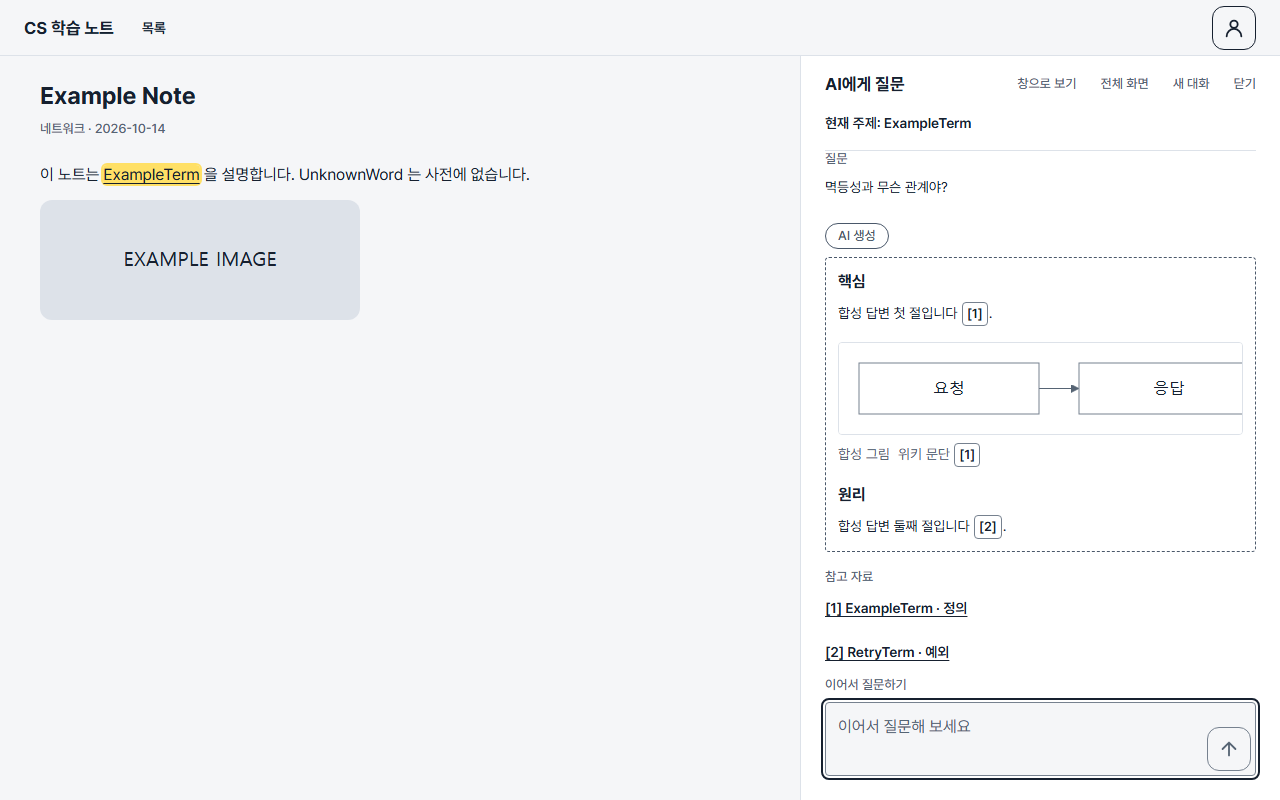
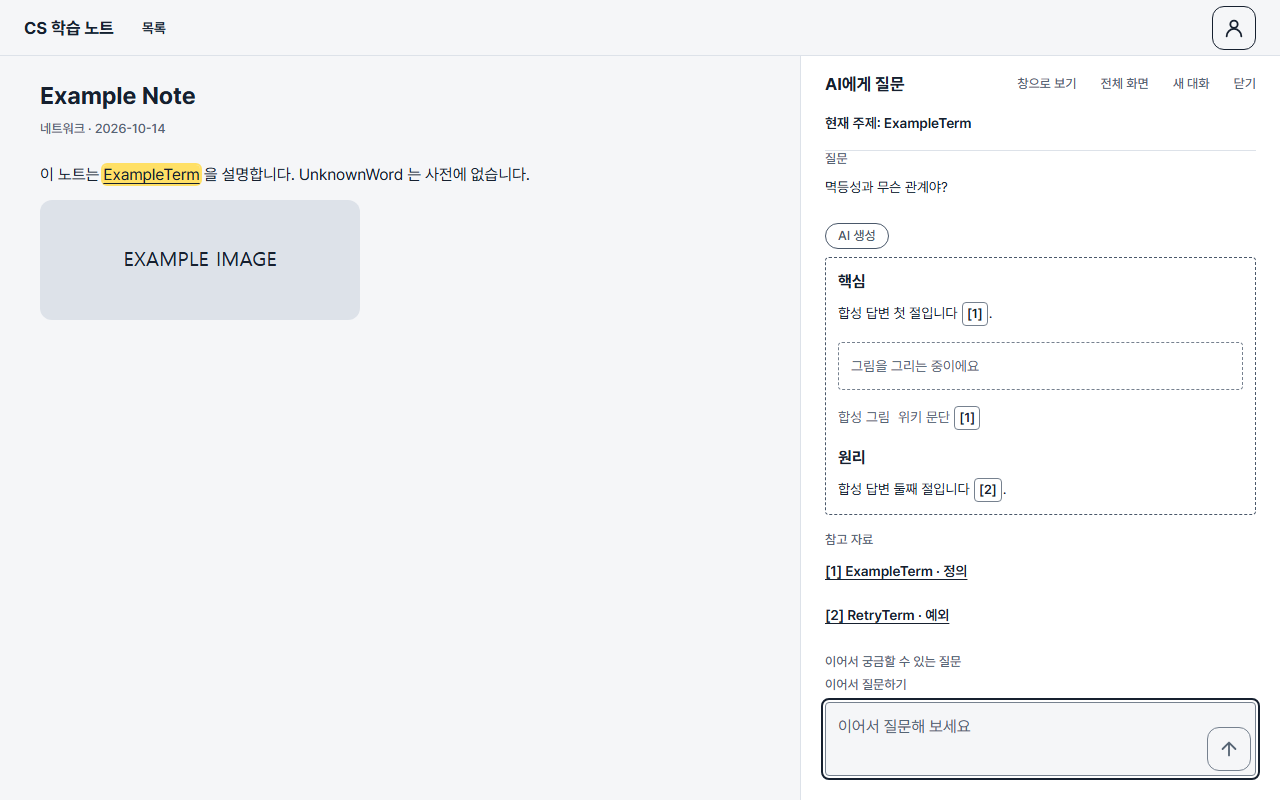
fix(MEG-254): 위키 질문 실패·경합 처리와 리뷰 지적 반영
- E27이 성공해야 대화를 바꾼다(실패해도 앞 대화 유지, replaceConversation)
- 503에서도 시트 안내를 남기고, 응답 전에 시트를 떠났으면 결과를 쓰지 않는다
- 질문 없는 위키 대화에서 노트 문장을 고르면 origin note로 새로 시작한다
- 버튼이 안내로 바뀌면 포커스를 안내로 옮기고, 진행 알림 영역을 늘 둔다
- E32 docstring에 source_id, 시험 2개 추가

diff --git a/frontend/src/pages/NoteReadPage.tsx b/frontend/src/pages/NoteReadPage.tsx
@@ -219,7 +219,11 @@ function NoteRead({ noteId }: { noteId: string }) {
     setOpenAi(null)
     if (auth.role === 'visitor') return openLoginPrompt()
     if (loginPanelOpen) closeLoginPrompt()
-    const started = agentState.conversation !== null || agentState.pending !== null || agentState.turns.length > 0
+    // 질문 없이 만든 대화(위키 출처의 'AI에게 질문', MEG-254)에서 노트 문장을 고르면 그 빈 대화를 버리고 노트 문장으로 새로 시작한다.
+    // 빈 대화는 질문 준비 화면이라 '새로 선택한 내용' 카드를 보이지 않고, 위키 대화는 노트 선택을 더할 수 없기 때문이다(서버 add_selections는 노트 대화만).
+    const empty = agentState.conversation !== null && agentState.turns.length === 0 && agentState.pending === null && agentState.failure === null
+    if (empty) agent.reset()
+    const started = !empty && (agentState.conversation !== null || agentState.pending !== null || agentState.turns.length > 0)
     const selection = { noteId: note.id, revision: note.revision, ...toCodePointRange(note.body_markdown, pick.start, pick.end), text }
     if (!started) setAgentUi((previous) => ({ ...previous, selection, excluded: false, expanded: false }))
     else {
@@ -284,43 +288,61 @@ function NoteRead({ noteId }: { noteId: string }) {
     setOpenTerm({ termId, openId: openCount.current, wikiLabel: label })
   }
   // 위키 출처에서 연 시트의 'AI에게 질문'(MEG-254 결정 1): E27 origin wiki로 새 대화를 만들고 패널을 연다. 모델은 부르지 않는다(첫 질문은 E29).
-  // 지금 대화는 새 대화로 바뀐다(헤더의 '새 대화'와 같다). 생성 중에는 버튼을 두지 않는다(결정 11과 같은 잠금).
+  // E27이 성공해야 지금 대화가 새 대화로 바뀐다(헤더의 '새 대화'와 같다). 실패하면 지금 대화는 그대로 남는다. 생성 중에는 버튼을 두지 않는다(결정 11과 같은 잠금).
+  // 응답이 오기 전에 시트를 닫거나 다른 용어를 열었으면(openId가 바뀜) 결과를 화면에 쓰지 않는다. 대화는 서버에만 생기고 열리지 않는다.
+  const currentOpenId = useRef(0)
+  const shownOpenId = openTerm?.openId ?? 0
+  useEffect(() => {
+    currentOpenId.current = shownOpenId
+  }, [shownOpenId])
   const askFromWiki = async () => {
     if (!openTerm || openTerm.wikiLabel === undefined || wikiAsk.busy) return
     if (auth.role === 'visitor') {
       setOpenTerm(null)
       return openLoginPrompt()
     }
-    const termId = openTerm.termId
+    const { termId, openId } = openTerm
+    const stillOpen = () => currentOpenId.current === openId
     setWikiAsk({ busy: true, notice: null })
-    const created = await agent.newConversation({ origin: 'wiki', wiki_ref: wikiRef(termId) })
-    if (created) {
+    let failure: string | null = null
+    try {
+      const created = await agent.replaceConversation({ origin: 'wiki', wiki_ref: wikiRef(termId) })
+      if (!stillOpen()) return
+      if (created) {
+        setWikiAsk({ busy: false, notice: null })
+        setAgentUi((previous) => ({ ...previous, ...FRESH_CONTEXT, selection: null }))
+        setOpenTerm(null)
+        setAgentOpen(true)
+        return
+      }
+      // 그 사이 다른 질문이 시작됐다. 아무것도 바꾸지 않고 버튼만 다시 쓸 수 있게 둔다.
       setWikiAsk({ busy: false, notice: null })
-      setAgentUi((previous) => ({ ...previous, ...FRESH_CONTEXT, selection: null }))
-      setOpenTerm(null)
-      setAgentOpen(true)
       return
+    } catch (error) {
+      failure = isApiError(error) ? error.code : 'network'
     }
-    const failure = agent.getSnapshot().loadFailure
-    // 실패한 E27의 기록은 지운다. 404가 남으면 노트 접근 변경(F6-15)으로 읽히기 때문이다. 앞 대화는 newConversation이 이미 비웠다.
-    agent.reset()
-    if (failure?.kind === 'login_required') {
+    if (failure === 'service_unavailable') closeAgentEntry()
+    if (!stillOpen()) return
+    if (failure === 'login_required') {
       // 세션이 끝났다. 시트를 닫고 로그인 안내를 연다(질문 401과 같은 처리).
       setWikiAsk({ busy: false, notice: null })
       setOpenTerm(null)
       return openLoginPrompt()
     }
-    // 422(화면 플래그만 켜진 배포)·503(노출 중단)이면 이 탭의 위키 질문 입구를 닫는다. 404는 그 용어로 지금 질문할 수 없다는 뜻이다.
-    if (failure?.kind === 'service_unavailable') closeAgentEntry()
-    const unavailable = failure?.kind === 'invalid' || failure?.kind === 'service_unavailable' || failure?.kind === 'not_found'
-    if (failure?.kind === 'invalid' || failure?.kind === 'service_unavailable') closeWikiEntry()
+    // 422(화면 플래그만 켜진 배포)·503(노출 중단)이면 이 탭의 위키 질문 입구를 닫는다. 404는 그 용어로 지금 질문할 수 없다는 뜻이다(다시 등록될 수 있어 닫지 않는다).
+    const closes = failure === 'validation_failed' || failure === 'bad_request' || failure === 'service_unavailable'
+    if (closes) closeWikiEntry()
+    const unavailable = closes || failure === 'not_found'
     setWikiAsk({ busy: false, notice: { text: unavailable ? AGENT_MESSAGES.wikiAskUnavailable : AGENT_MESSAGES.wikiAskFailed, unavailable } })
   }
+  // 버튼은 위키 출처에서 연 시트이고 입구가 열려 있을 때만 둔다. 열지 못한 안내(notice)는 입구가 닫힌 뒤에도(503 포함) 같은 시트에 남긴다.
   const wikiSheetAsk: TermSheetAsk | undefined =
-    openTerm?.wikiLabel !== undefined && !AGENT_DISABLED_BY_BUILD && !agentClosed && (wikiOpen || wikiAsk.notice !== null)
-      && agentState.pending === null
-      ? { label: AGENT_MESSAGES.wikiAsk, onAsk: () => { void askFromWiki() }, busy: wikiAsk.busy, busyLabel: AGENT_MESSAGES.wikiAskBusy, notice: wikiAsk.notice }
-      : undefined
+    openTerm?.wikiLabel === undefined ? undefined
+      : wikiAsk.notice !== null || wikiAsk.busy
+        ? { label: AGENT_MESSAGES.wikiAsk, onAsk: () => { void askFromWiki() }, busy: wikiAsk.busy, busyLabel: AGENT_MESSAGES.wikiAskBusy, notice: wikiAsk.notice }
+        : !AGENT_DISABLED_BY_BUILD && !agentClosed && wikiOpen && agentState.pending === null
+          ? { label: AGENT_MESSAGES.wikiAsk, onAsk: () => { void askFromWiki() }, busy: false, busyLabel: AGENT_MESSAGES.wikiAskBusy, notice: null }
+          : undefined
   // 패널이 열려 있으면 본문 오른쪽 480px를 비워 패널이 본문을 가리지 않게 한다(PC 폭에서만).
   // 떠 있는 창이면 창 폭만큼 비운다(F6-3f). 전체 화면은 패널과 같은 배치를 둔 채 노트를 가려서, 패널로 돌아오면 읽던 위치가 그대로다(결정 43).
   const panelReserved = wide && (termOpen || openAi !== null || loginPanelOpen || (agentOpen && agentShown !== 'floating'))

diff --git a/frontend/tests/agentWiki.spec.ts b/frontend/tests/agentWiki.spec.ts
@@ -251,8 +251,46 @@ test('화면 플래그만 켜진 배포: E27 origin wiki가 422면 위키 질문
   // 노트 접근 변경(F6-15)으로 읽지 않는다
   await expect(page.getByRole('heading', { level: 1, name: 'Example Note' })).toBeVisible()
   await shot(page, testInfo, 'PC-wiki-ask-422')
-  // 노트 선택 'AI에게 질문'은 그대로 열린다(위키 입구만 닫았다)
+  // 노트 선택 'AI에게 질문'은 그대로 열리고, 실패한 위키 질문이 앞 대화를 지우지 않았다
   await selectText(page, SELECTED)
   await page.getByRole('button', { name: 'AI에게 질문', exact: true }).click()
   await expect(panelOf(page)).toBeVisible()
+  await expect(panelOf(page).getByText('합성 답변 첫 절입니다').first()).toBeVisible()
+})
+
+test('E27 origin wiki가 503이면 안내를 남기고 노트 선택 입구도 닫는다', async ({ page }) => {
+  test.skip(!wikiBuild(), '위키 플래그를 켠 빌드에서만 버튼이 있다')
+  await login(page)
+  const panel = await answeredFromWiki(page)
+  await panel.getByRole('button', { name: '[1] ExampleTerm · 정의' }).click()
+  await page.getByRole('article', { name: '출처 1' }).getByRole('button', { name: '용어 시트 열기' }).click()
+  await page.evaluate(async () => {
+    const m = await import(/* @vite-ignore */ '/src/api/mocks/agent.ts')
+    m.setAgentMockScenario('service_unavailable')
+  })
+  const sheet = sheetOf(page)
+  await sheet.getByRole('button', { name: 'AI에게 질문' }).click()
+  await expect(sheet.getByRole('alert').filter({ hasText: '지금은 이 용어로 새 질문을 받을 수 없어요.' })).toBeVisible()
+  await expect(sheet.getByRole('button', { name: 'AI에게 질문' })).toHaveCount(0)
+})
+
+test('질문 없는 위키 대화에서 노트 문장을 고르면 origin note 대화로 새로 시작한다', async ({ page }) => {
+  test.skip(!wikiBuild(), '위키 플래그를 켠 빌드에서만 버튼이 있다')
+  await login(page)
+  const panel = await answeredFromWiki(page)
+  await panel.getByRole('button', { name: '[1] ExampleTerm · 정의' }).click()
+  await page.getByRole('article', { name: '출처 1' }).getByRole('button', { name: '용어 시트 열기' }).click()
+  await sheetOf(page).getByRole('button', { name: 'AI에게 질문' }).click()
+  await expect(panelOf(page).getByText('현재 주제: ExampleTerm')).toBeVisible()
+  // PC 패널은 모달이 아니라 노트에서 바로 문장을 고를 수 있다
+  await selectText(page, SELECTED)
+  await page.getByRole('button', { name: 'AI에게 질문', exact: true }).click()
+  const next = panelOf(page)
+  await expect(next.getByText('현재 주제: ExampleTerm')).toHaveCount(0)
+  await input(next).fill('이건 뭐야?')
+  await send(next).click()
+  await expect(next.getByRole('button', { name: /^\[1\]/ }).first()).toBeVisible({ timeout: 10_000 })
+  const bodies = await conversationBodies(page)
+  expect(bodies.map((body) => body.origin)).toEqual(['note', 'wiki', 'note'])
+  expect(bodies.at(-1).selection).toBeDefined()
 })

diff --git a/frontend/src/glossary/TermSheet.tsx b/frontend/src/glossary/TermSheet.tsx
@@ -150,6 +150,12 @@ function TermSheetContent({ termId, onLoginRequired, ask }: { termId: number; on
   const refreshing = useRef<Promise<GlossaryResponse> | null>(null)
   const current = result?.key === attempt ? result : null
   const data = current && 'data' in current ? current.data : null
+  // 'AI에게 질문'이 안내로 바뀌어 버튼이 사라지면, 누른 버튼에 있던 포커스를 안내로 옮긴다(포커스가 문서 밖으로 빠지지 않게).
+  const noticeRef = useRef<HTMLParagraphElement>(null)
+  const askUnavailable = ask?.notice?.unavailable ?? false
+  useEffect(() => {
+    if (askUnavailable) noticeRef.current?.focus({ preventScroll: true })
+  }, [askUnavailable])
 
   useEffect(() => {
     const controller = new AbortController()
@@ -244,14 +250,15 @@ function TermSheetContent({ termId, onLoginRequired, ask }: { termId: number; on
       })}
       {showViewNotice ? <p className={styles.notice} role="status">{MESSAGES.viewNotRecorded}</p> : null}
       {favoriteFailed ? <p className={styles.notice} role="alert">{MESSAGES.favoriteFailed}</p> : null}
-      {ask?.notice ? <p className={styles.notice} role="alert">{ask.notice.text}</p> : null}
+      {ask?.notice ? <p ref={noticeRef} tabIndex={-1} className={styles.notice} role="alert">{ask.notice.text}</p> : null}
       <div className={styles.actions}>
         <FavoriteToggle pressed={favorite} aria-disabled={favoritePending} onPressedChange={changeFavorite} />
         {ask && !ask.notice?.unavailable
           ? <Button variant="primary" aria-disabled={ask.busy ? true : undefined} onClick={() => { if (!ask.busy) ask.onAsk() }}>{ask.label}</Button>
           : null}
       </div>
-      {ask?.busy ? <p className={styles.srOnly} role="status">{ask.busyLabel}</p> : null}
+      {/* 대화를 여는 중임을 알린다. 알림 영역은 늘 두고 글만 바꿔야 스크린 리더가 읽는다. */}
+      <p className={styles.srOnly} role="status">{ask?.busy ? ask.busyLabel : ''}</p>
       {/* 저장 결과를 스크린 리더에 알린다. 실패했을 때는 비워 두어 저장된 것처럼 읽히지 않는다. */}
       <p className={styles.srOnly} role="status">{favoriteFailed ? '' : favoriteMessage}</p>
     </>

diff --git a/frontend/src/agent/conversation.ts b/frontend/src/agent/conversation.ts
@@ -445,6 +445,17 @@ export class AgentConversationController {
     }
   }
 
+  // 지금 대화를 그대로 둔 채 E27을 먼저 부르고, 성공했을 때만 새 대화로 바꾼다(MEG-254 위키 질문).
+  // 실패하면 지금 대화는 남고 E27의 오류(ApiError 등)를 그대로 던진다. 진행 중인 질문이 있거나 그 사이 질문이 시작되면 바꾸지 않고 null이다.
+  async replaceConversation(context: CreateConversationRequest): Promise<AgentConversation | null> {
+    if (this.run) return null
+    const conversation = await createConversation(context)
+    if (this.run) return null
+    this.reset()
+    this.set({ conversation, turns: [] })
+    return conversation
+  }
+
   // 대화를 비운다. 진행 중인 요청의 응답은 버린다(서버 실행은 끝까지 간다).
   reset(): void {
     this.refreshAfterRun = false

diff --git a/backend/app/agent_sources.py b/backend/app/agent_sources.py
@@ -8,7 +8,8 @@ GET /api/ai/turns/{turn_id}/sources/{ref} — 그 턴이 인용한 문단을 인
 3. 노트 출처(D1)는 역할과 관계없이 그 노트가 지금 공개이고 존재한다. 위키 출처(MEG-252)는 그 사전 항목이 지금 있다
    (설계 3.2: glossary_entries 행 + terms.source = 'glossary'). 사전은 모두 공개다(W5).
 
-응답: {ref, source_kind, title, section, cited_revision, paragraph_text, highlight, changed_since_cited}. 노트와 위키가 같은 모양이다.
+응답: {ref, source_kind, source_id, title, section, cited_revision, paragraph_text, highlight, changed_since_cited}. 노트와 위키가 같은 모양이다.
+- source_id는 출처 원본 식별자다(노트 ID 문자열, 위키는 `glossary:{term_id}`). 화면이 위키 출처에서 용어 시트(E06)를 열 때 쓴다(MEG-254).
 - paragraph_text는 인용 당시 문단 원문(paragraph_snapshot)이다. 노트와 사전은 이전 개정을 보관하지 않는다.
 - changed_since_cited는 개정 번호가 아니라, 지금 본문을 같은 규칙(note_chunks)으로 나눈 문단 가운데 인용 당시 원문과 같은
   문단이 없는지로 정한다. 노트 개정은 제목·본문 어디가 바뀌어도 오르고, 사전 개정은 저장할 때마다 오르기 때문이다(기술 검토
